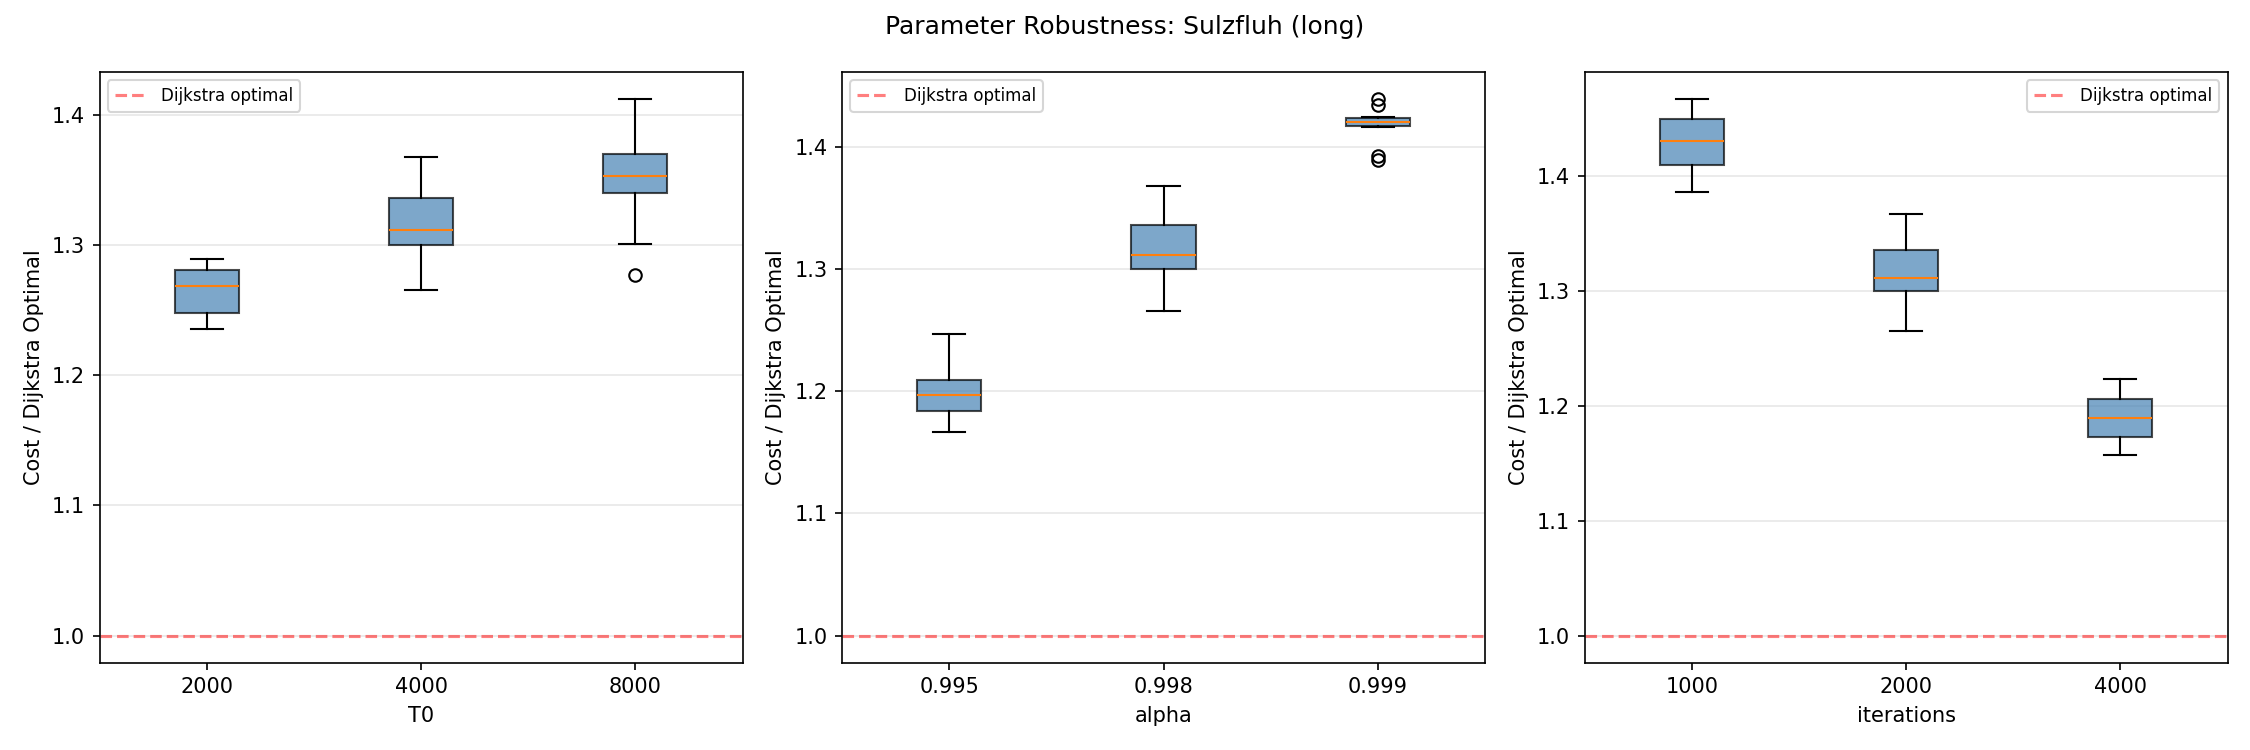
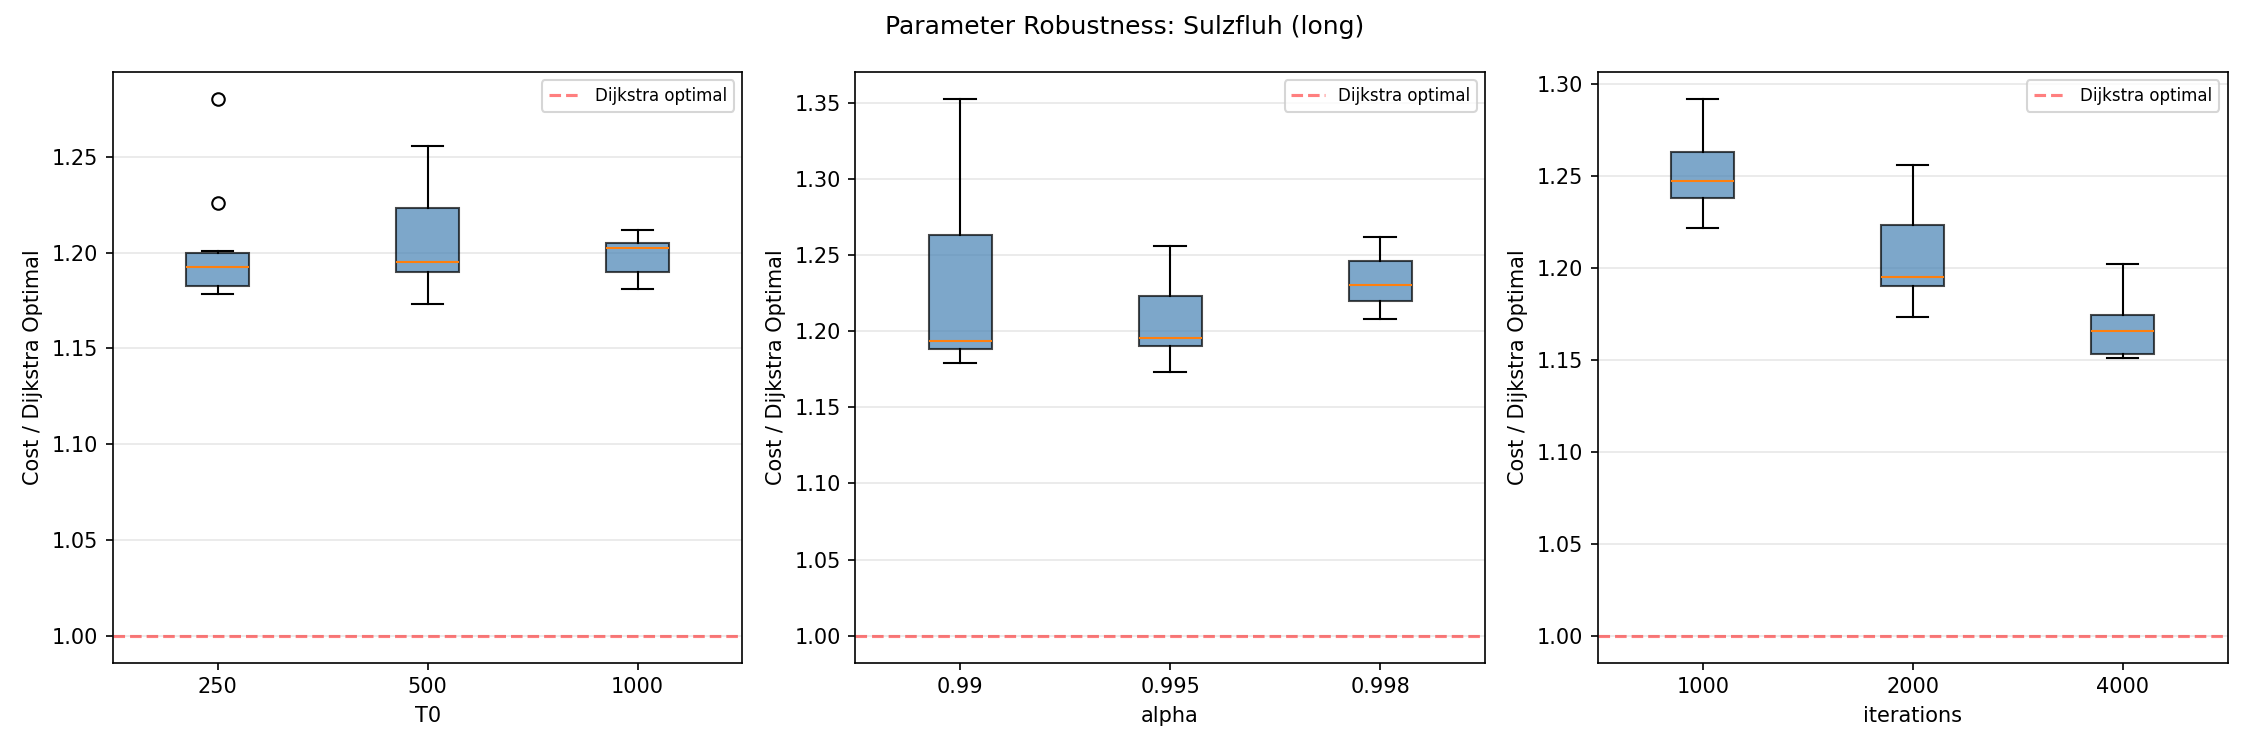
change default parameters, new plots

diff --git a/robustness.py b/robustness.py
@@ -49,8 +49,8 @@ from terrain_graph import TerrainGraph
 ## -----------------------------------------------------------
 # Defaults (held fixed while sweeping the other parameter)
 # -----------------------------------------------------------
-DEFAULT_T0 = 4000
-DEFAULT_ALPHA = 0.998
+DEFAULT_T0 = 500
+DEFAULT_ALPHA = 0.995
 DEFAULT_ITERS = 2000
 
 
@@ -389,8 +389,8 @@ def robustness_test(terrain, start, goal, route_name, seeds):
     # parameter sweep
     all_stats = []
     all_raw = []
-    for param_name, values in [("T0", [2000, 4000, 8000]),
-                                ("alpha", [0.995, 0.998, 0.999]),
+    for param_name, values in [("T0", [250, 500, 1000]),
+                                ("alpha", [0.990, 0.995, 0.998]),
                                 ("iterations", [1000, 2000, 4000])]:
         stats, raw = sweep_one_param(terrain, start, goal, opt_cost,
                                      param_name, values, seeds)
